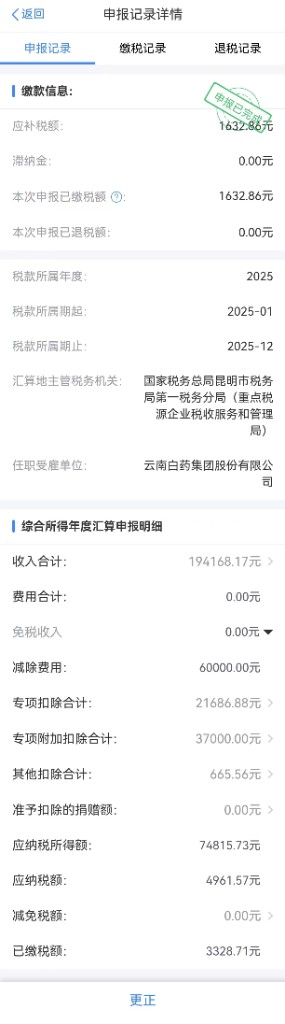
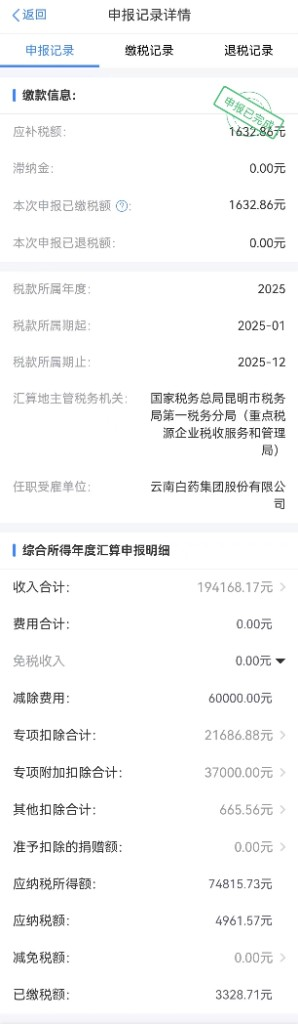
fix: 更新申报记录详情页设计稿切图
替换 shenbao_jilu_detail_design.png 为新设计图并刷新缓存版本号。

diff --git a/frontend/shenbao_jilu_detail.html b/frontend/shenbao_jilu_detail.html
@@ -340,7 +340,7 @@
 <body class="page-shenbao-detail detail-design-mode">
     <a href="shenbao_jilu.html?tab=done" class="design-back-btn" id="designBackBtn" aria-label="返回">&nbsp;</a>
     <div class="detail-design-view" id="detailDesignView" aria-hidden="false">
-        <img src="shenbao_jilu_detail_design.png?v=20260523" width="414" alt="申报记录详情">
+        <img src="shenbao_jilu_detail_design.png?v=20260523-v2" width="414" alt="申报记录详情">
     </div>
 
     <div class="detail-form-view" id="detailFormView">
